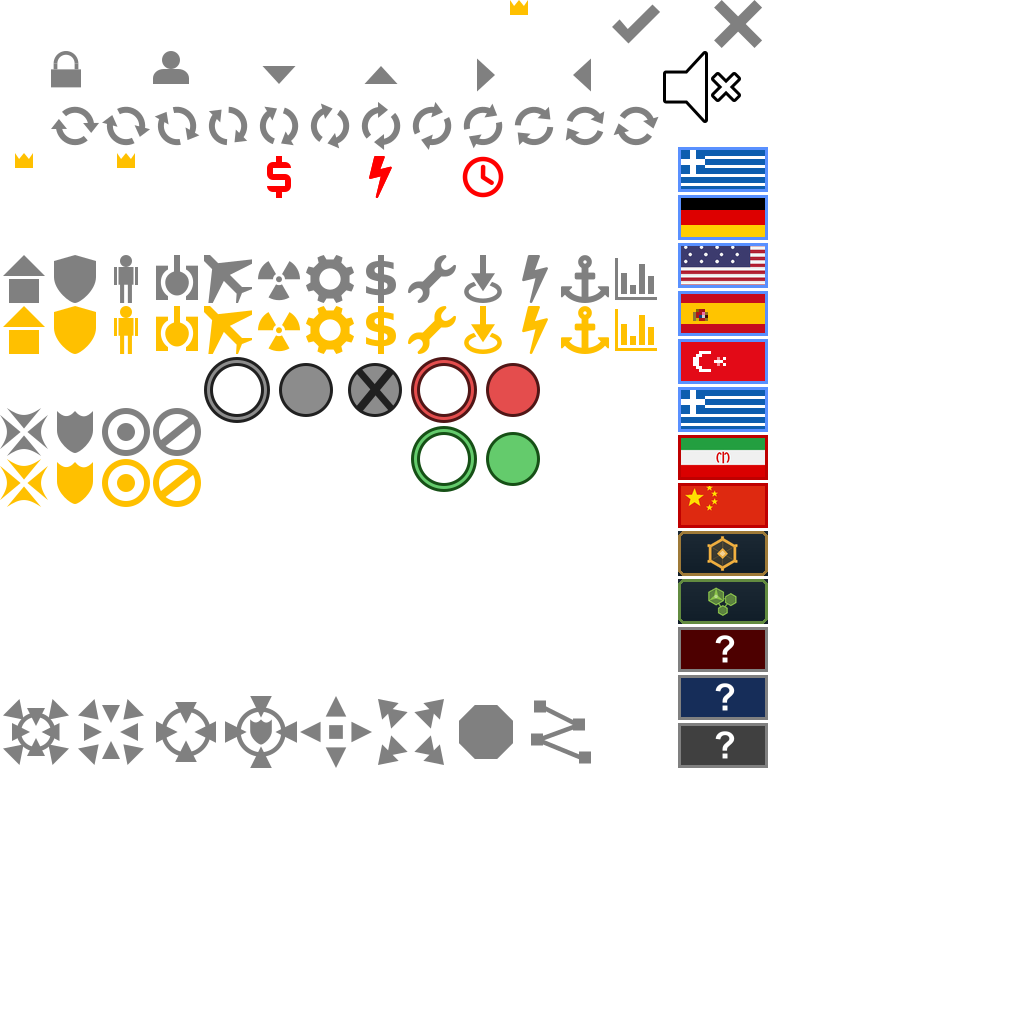
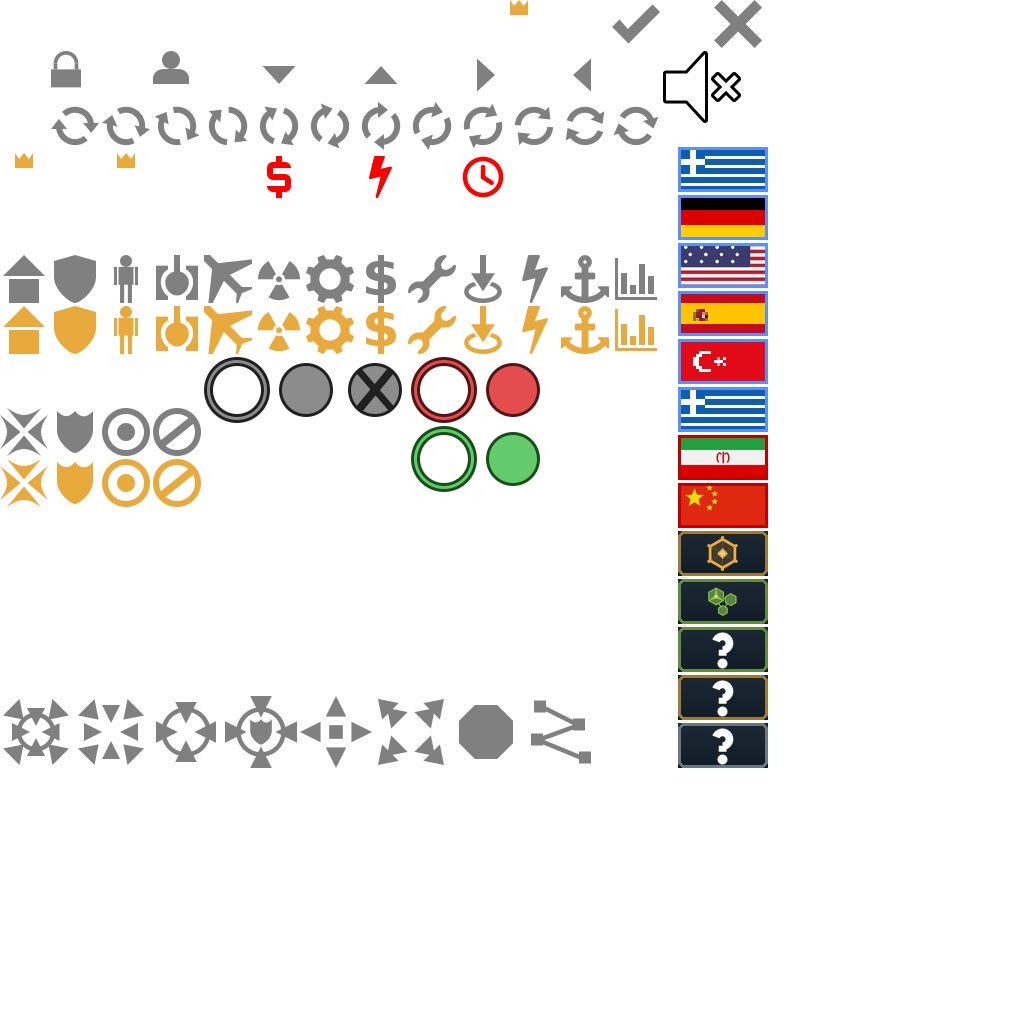
Glyph atlas: stock-yellow highlights to sun gold, Random lobby plaques in the faction plaque style (issue #124)
Proposal A4, the last section-A item of the visual survey. gen_flags() in
uibits/gen_chrome.py becomes gen_glyphs(): it still patches the stock sheet
in place, and now also remaps RA's brand yellow (the production tabs' alert
row, the selected-stance row, the admin crowns) to the locked SUN_GOLD per
pixel at all three UI scales, and redraws the three Random plaques in the
faction dropdown as the faction-logo plaque with a question mark, framed in
Assembly green, Consortium gold and a neutral grey.

The red cash / power / clock icons stay stock red on purpose:
docs/ART_DIRECTION.md keeps the alert colour language unchanged from stock,
and the locked doc wins over the survey's amber.

Verified: a per-cell diff of the 1x sheet lists exactly the cells that held
stock yellow plus the three Random rows; chrome.yaml untouched; re-running
the generator changes only the three glyph sheets and is byte-identical on
a second run; --check-yaml exits 0 across all 75 maps. Not seen live.

Claude-Session: https://claude.ai/code/session_01RMpaweDkdh9CMAR3q9WMob

diff --git a/mods/sungrid/uibits/gen_chrome.py b/mods/sungrid/uibits/gen_chrome.py
@@ -215,7 +215,7 @@ def emblem_consortium(size, accent=SUN_GOLD):
     Redone bolder than the first pass (docs/BACKLOG.md issue #52): the
     original thin-line wall + 16-tick metering ring turned to mush below
     ~32px, and this mark now also has to read at lobby-flag scale (15px
-    tall, see gen_flags below). Line weights are proportional with much
+    tall, see gen_glyphs below). Line weights are proportional with much
     higher floors, the wall is a solid filled band, and fine detail
     (metering ticks, the inner vault wall) only draws at sizes with the
     pixels to resolve it."""
@@ -284,7 +284,7 @@ def emblem_assembly(size, accent=GREEN_ACCENT):
 
     Redone bolder than the first pass (docs/BACKLOG.md issue #52): thin
     struts and dim node fills disappeared below ~32px, and this mark now
-    also has to read at lobby-flag scale (15px tall, see gen_flags below).
+    also has to read at lobby-flag scale (15px tall, see gen_glyphs below).
     Node fills are brighter, outlines/struts much heavier, and the weld
     rivet dots only draw at sizes that can resolve them."""
     s = size * SS
@@ -410,29 +410,50 @@ def wordmark_badge(size, scale=1):
 
 
 # --------------------------------------------------------------------------
-# glyphs.png faction-flag patch: the lobby/observer `flags` collection
-# (chrome.yaml) still ships the stock RA sheet, so The Consortium's logo slot
-# carried the stock Allied eagle and The Assembly's the Soviet
-# hammer-and-sickle — literal Cold War heraldry contradicting both factions'
-# documented identities (docs/BUILDINGS.md's infrastructure-philosophy axis,
-# docs/ART_DIRECTION.md). Replaced with plaques carrying the two faction
-# marks above (Citadel Seal / Swarm Rig), so the logo a player picks a side
-# by matches the badge their sidebar then shows.
+# glyphs.png patch: the glyph atlas (chrome.yaml `^Glyphs`: production,
+# order, stance and command icons, the cash/power/clock tooltip icons,
+# checkmarks, lobby bits, the `flags` collection) is the stock RA sheet,
+# patched in place by gen_glyphs() below rather than regenerated. Three
+# things are ours on it:
 #
-# Unlike everything else in this file, this PATCHES the existing glyphs
-# sheets in place rather than regenerating them: glyphs.png is otherwise
-# still stock content (cash/power icons, checkboxes, sub-faction flags...)
-# that is NOT being replaced here. Idempotent for the two regions it owns —
-# their pixels depend only on this script. Sub-faction slots are handled
-# below (FLAG_BORDER_SOVIET notes): western nation flags stay stock by
-# direct request, and the three slots whose displayed sub-faction no longer
-# matches the stock art (Greece / China / Iran) get corrected art.
+#  - The faction-logo slots. The Consortium's carried the stock Allied eagle
+#    and The Assembly's the Soviet hammer-and-sickle — literal Cold War
+#    heraldry contradicting both factions' documented identities
+#    (docs/BUILDINGS.md's infrastructure-philosophy axis,
+#    docs/ART_DIRECTION.md). Replaced with plaques carrying the two faction
+#    marks above (Citadel Seal / Swarm Rig), so the logo a player picks a
+#    side by matches the badge their sidebar then shows. The three Random
+#    slots (issue #124) are the same plaque with a question mark, on the
+#    faction accent for RandomAllies / RandomSoviet and a neutral grey for
+#    Random, instead of stock's blue / red / grey boxes.
+#  - The stock-yellow highlights (issue #124): the production tabs' alert
+#    row, the selected-stance row and the admin crowns are RA's brand yellow
+#    (255,192,0); they go to the locked SUN_GOLD. The red cash / power /
+#    clock "critical" icons stay stock red on purpose — docs/ART_DIRECTION.md
+#    keeps the RTS alert colour language unchanged.
+#  - Sub-faction slots (FLAG_BORDER_SOVIET notes below): western nation
+#    flags stay stock by direct request, and the slots whose displayed
+#    sub-faction no longer matches the stock art (Greece / China / Iran /
+#    USA) get corrected art.
+#
+# Idempotent for everything it owns: the plaque pixels depend only on this
+# script, the greece source region is never written, and the yellow remap
+# matches the stock hue at full saturation, which SUN_GOLD (s = 0.74) is
+# not, so a second run finds nothing to recolour. Every other glyph is
+# stock content that is NOT being replaced here.
 
 FLAG_W, FLAG_H = 30, 15
+NEUTRAL_ACCENT = (0x9A, 0xA6, 0xAE)   # the "either side" Random plaque's frame
 FLAG_REGIONS = {          # chrome.yaml `flags:` region origins, 1x units
     "allies": (226, 177, "consortium", SUN_GOLD),
     "soviet": (226, 193, "assembly", GREEN_ACCENT),
+    "RandomSoviet": (226, 209, "random", GREEN_ACCENT),
+    "RandomAllies": (226, 225, "random", SUN_GOLD),
+    "Random": (226, 241, "random", NEUTRAL_ACCENT),
 }
+GLYPH_ICON_W = 226        # the icon area; the flag column starts here, and its
+                          # flags have yellows of their own (Spain, China)
+STOCK_YELLOW_G = 192      # (255, 192, 0): the sheet's own highlight yellow
 
 # Sub-faction flag corrections. The western nation flags stay exactly as
 # stock (direct request), but three slots no longer match the sub-faction
@@ -528,6 +549,44 @@ def usa_flag(scale):
     return _framed_flag(scale, draw, FLAG_BORDER_ALLIED)
 
 
+def question_mark(size, accent, ss=4):
+    """The Random plaques' mark: a white question mark `size` px tall (hook,
+    stem, dot), supersampled like the emblems. `accent` is the plaque frame's
+    colour; the mark itself stays white, as stock's does, for legibility at
+    the 1x lobby size."""
+    S = size * ss
+    im = Image.new("RGBA", (S, S), (0, 0, 0, 0))
+    d = ImageDraw.Draw(im)
+    w = max(ss, round(S * 0.2))             # stroke
+    cx = S * 0.5
+    r = S * 0.27                            # hook radius
+    cy = S * 0.07 + r
+    white = (255, 255, 255, 255)
+    d.arc((cx - r, cy - r, cx + r, cy + r), start=200, end=90, fill=white, width=w)
+    d.line((cx, cy + r - w / 2, cx, S * 0.66), fill=white, width=w)
+    dr = w * 0.62
+    d.ellipse((cx - dr, S * 0.86 - dr, cx + dr, S * 0.86 + dr), fill=white)
+    return im.resize((size, size), Image.LANCZOS)
+
+
+def regold_icons(sheet, scale):
+    """Recolour the stock-yellow highlights in the icon area to SUN_GOLD, in
+    place. Stock draws them in one hue at full saturation ((255, 192, 0) plus
+    a couple of lighter variants and anti-aliased edges that keep the hue at
+    partial alpha); each pixel keeps its alpha and its lightness offset from
+    the base yellow. The flag column is left alone."""
+    px = sheet.load()
+    n = 0
+    for y in range(sheet.height):
+        for x in range(GLYPH_ICON_W * scale):
+            r, g, b, a = px[x, y]
+            if a == 0 or r < 250 or b > 8 or g < 180 or g > 215:
+                continue
+            px[x, y] = lift(SUN_GOLD, g - STOCK_YELLOW_G) + (a,)
+            n += 1
+    return n
+
+
 def flag_plaque(scale, kind, accent):
     """One faction-logo plaque at FLAG_W x FLAG_H times `scale`: panel
     surface, soft accent frame, the faction mark centered."""
@@ -539,19 +598,24 @@ def flag_plaque(scale, kind, accent):
         d.line((0, y, w - 1, y), fill=mix(lift(PANEL, 6), lift(PANEL, -6), y / (h - 1)))
     d.rounded_rectangle((0, 0, w - 1, h - 1), radius=2 * scale,
                         outline=mix(accent, PANEL, 0.35), width=scale)
-    mark_fn = {"consortium": emblem_consortium, "assembly": emblem_assembly}[kind]
+    mark_fn = {"consortium": emblem_consortium, "assembly": emblem_assembly,
+               "random": question_mark}[kind]
     m = mark_fn((FLAG_H - 2) * scale, accent)
     im.alpha_composite(m, ((w - m.width) // 2, (h - m.height) // 2))
     return im
 
 
-def gen_flags():
+def gen_glyphs():
     # NB: glyphs-3x.png is a genuine 3x layout on an oversized 1024px canvas
     # (content occupies the 768px top-left; the rest is padding) — verified
-    # against the stock sheet's own flag positions, so patch at scale 3.
+    # against the stock sheet's own flag positions, so patch at scale 3. The
+    # 2x and 3x sheets are stock's own redrawn (anti-aliased) art, not
+    # upscales of the 1x one, which is why the recolour is a hue match per
+    # pixel rather than a lookup of exact stock colours.
     for name, scale in (("glyphs.png", 1), ("glyphs-2x.png", 2), ("glyphs-3x.png", 3)):
         path = f"{UIBITS}/{name}"
         sheet = Image.open(path).convert("RGBA")
+        regolded = regold_icons(sheet, scale)
         for x, y, kind, accent in FLAG_REGIONS.values():
             plaque = flag_plaque(scale, kind, accent)
             sheet.paste(plaque, (x * scale, y * scale))
@@ -569,7 +633,7 @@ def gen_flags():
         sheet.paste(iran_flag(scale), (226 * scale, 145 * scale))    # ukraine slot
         sheet.paste(usa_flag(scale), (226 * scale, 81 * scale))      # france slot
         sheet.save(path)
-        print(name, "flags patched", sheet.size)
+        print(name, "glyphs patched", sheet.size, f"{regolded} px regolded")
 
 
 # --------------------------------------------------------------------------
@@ -981,6 +1045,6 @@ if __name__ == "__main__":
     gen_loadscreen()
     gen_content_background()
     gen_icons()
-    gen_flags()
+    gen_glyphs()
     gen_app_icons()
     gen_macos_background()

diff --git a/CLAUDE.md b/CLAUDE.md
@@ -12,7 +12,7 @@ This repo follows the [OpenRAModSDK](https://github.com/OpenRA/OpenRAModSDK) pat
 - `engine/` — downloaded/built by `fetch-engine.sh` (or `make`), pinned via `mod.config`'s `ENGINE_VERSION`. Contains `OpenRA.Game`, `OpenRA.Mods.Common`, stock mods (`mods/ra`, `mods/cnc`, `mods/d2k`, `mods/ts`), etc. Gitignored — if a friction point genuinely needs an engine-level change, it usually does **not** need a separate personal fork repo: this repo's own pre-Phase-0 history already contains the full engine tree, so a fix can be pinned via an `engine-patch/*` branch built on the currently-pinned commit — see "Engine version pinning" below before touching `ENGINE_VERSION` or any `engine-patch/*` branch. Only reach for an actual personal fork of `OpenRA/OpenRA` if the needed base commit genuinely isn't already reachable in this repo's own history (see `docs/ARCHITECTURE.md`).
 
 **Mod/content territory — where Sungrid Protocol work actually happens:**
-- `mods/sungrid/` — **the Sungrid Protocol mod content**: real Red Alert-derived gameplay (rules/YAML, sequences, 75 maps, chrome layouts, fluent strings) plus all Sungrid-original content on top of it. Art generators live beside their output: `bits/gen_concept_art.py` (in-world sprites — every building as a `Mesh` solid since issue #106, including the Sungrid Construction Yard `sgfact` that `FACT` renders, each planting its own plot since issue #108 and animated since issue #109 — build-ups, rubble, husks, idle overlays, programmatic cameos), `bits/gen_photo_cameos.py` (the shipped photographic cameos), `bits/gen_cursor_art.py`, `bits/gen_intro_music.py`, `bits/gen_arc_sounds.py` (the two arc-weapon reports, issue #110), `bits/gen_unit_effects.py` (issue #120 — projectiles, muzzle bloom and impact effects, the drone uplink pips, the drone and Hauler wrecks and smoke, the discharge death), `bits/gen_core_units.py` (issue #121 — the MCV and the Ore Truck: `Mesh` vehicles at 32 yaws on the stock frame layouts, with scene cameos since issue #123; its rifleman was withdrawn in #123), `bits/gen_world_scenery.py` (issue #122 — the six neutral scenery pieces, the Field Clinic and the Seed Vault on the stock frame layouts), `bits/reskin_terrain_palette.py`, `uibits/gen_chrome.py` (dialog/sidebar/loadscreens/mod icons/faction flags). Regenerating is always safe — output depends only on the script.
+- `mods/sungrid/` — **the Sungrid Protocol mod content**: real Red Alert-derived gameplay (rules/YAML, sequences, 75 maps, chrome layouts, fluent strings) plus all Sungrid-original content on top of it. Art generators live beside their output: `bits/gen_concept_art.py` (in-world sprites — every building as a `Mesh` solid since issue #106, including the Sungrid Construction Yard `sgfact` that `FACT` renders, each planting its own plot since issue #108 and animated since issue #109 — build-ups, rubble, husks, idle overlays, programmatic cameos), `bits/gen_photo_cameos.py` (the shipped photographic cameos), `bits/gen_cursor_art.py`, `bits/gen_intro_music.py`, `bits/gen_arc_sounds.py` (the two arc-weapon reports, issue #110), `bits/gen_unit_effects.py` (issue #120 — projectiles, muzzle bloom and impact effects, the drone uplink pips, the drone and Hauler wrecks and smoke, the discharge death), `bits/gen_core_units.py` (issue #121 — the MCV and the Ore Truck: `Mesh` vehicles at 32 yaws on the stock frame layouts, with scene cameos since issue #123; its rifleman was withdrawn in #123), `bits/gen_world_scenery.py` (issue #122 — the six neutral scenery pieces, the Field Clinic and the Seed Vault on the stock frame layouts), `bits/reskin_terrain_palette.py`, `uibits/gen_chrome.py` (dialog/sidebar/loadscreens/mod icons/faction flags, and since issue #124 the glyph-atlas patch: stock yellow to sun gold, Random plaques). Regenerating is always safe — output depends only on the script.
 - `mods/sungrid-content/` — the content-installer mod. Sungrid Protocol reads Red Alert asset `.mix` files from `<SupportDir>/Content/ra/v2/`; this is the first-launch flow that fetches the official freeware package or extracts from a disc/Steam/Origin copy. Since issue #119 it draws on the game's own chrome (`sungrid|chrome.yaml` merged with its small `chrome.yaml`), cursors and `uibits/content-bg.png`; its `content.yaml` and the game's `chrome/lobby.yaml` are copies of the stock layouts with a header added — re-diff them against `engine/mods/common*` whenever `ENGINE_VERSION` moves.
 - `OpenRA.Mods.Sungrid/` — mod-specific C# project. `GridReserve/` holds the whole economic-victory mode (`GridReserveVault`, `GridReserveManager`, `GridReserveController`, `GridReserveBotModule`, and the HUD/briefing/standings logic); `LoadScreens/SungridLoadScreen.cs` is the stock logo-stripe load screen wrapped so it sets the window title as soon as the mod's fluent strings exist, instead of the engine's hard-coded "OpenRA" lasting through the whole load (issue #117); `Rendering/` still holds the SDK's two renamed example traits (`ColorPickerColorShift`, `PlayerColorShift`); `UtilityCommands/RefreshMapPreviewsCommand.cs` is `./utility.sh --refresh-map-previews <map>...`, which re-saves a map so its `map.png` is rendered from the current tileset colours (issue #119 — previews and the radar minimap come from `tilesets/*.yaml`'s terrain-type `Color:` entries, not the palette; `bits/reskin_tileset_colors.py` keeps those in step with the palette reskin); `Economy/` holds `SpawnsResourceOnDeath` (issue #86 — drops a small amount of a resource at an actor's death cell for a Harvester-type unit to auto-collect) and `ResourceDecayManager` (a World-actor `ITick` trait owning both of that drop's timers: issue #87's decay, which expires an uncollected drop so battlefield wreckage stays temporary, and issue #97's `SpawnDelay`, which holds the drop back for 30s before it appears at all); both unverified, no engine build available in this environment to compile against.
 - `mod.config`, `fetch-engine.sh`/`.cmd`, `Makefile`/`make.cmd`/`make.ps1`, `launch-game.*`, `launch-dedicated.*`, `utility.*`, `Sungrid.sln`, `packaging/` — SDK scaffolding, all mod-scale (not the engine's own build/packaging tooling). `packaging/artwork/` (the application icons for all three platform packages and the macOS DMG background) is generated output of `mods/sungrid/uibits/gen_chrome.py`, not hand-edited files, since issue #114 — before that it was still the SDK's "Ex" placeholder icon.
@@ -568,15 +568,16 @@ widely, including `.lua`, when removing an actor).
   name, the Grid Defense Turret's tank shell, the Phase 7 unit order (MCV/HARV/E1 first), scenery, Scrap readability,
   rubble and bibs for the roster. Four fixes from the same survey already shipped (wordmark in the logo slot, fake
   arrays on Sungrid art, Hauler spills Scrap, no fireball on the Disruptor Trooper's death), and issue #119 took
-  the whole first-impression group except the glyph atlas (A4): installer chrome, main menu, a Sungrid shellmap
-  battle, the Grid Reserve HUD chrome, loading tips, previews and titles, lobby header, emblem refinement.
+  the whole first-impression group except the glyph atlas: installer chrome, main menu, a Sungrid shellmap
+  battle, the Grid Reserve HUD chrome, loading tips, previews and titles, lobby header, emblem refinement
+  (issue #124 then took the atlas, A4: stock yellow to sun gold and the Random plaques; the alert reds stay stock
+  per `docs/ART_DIRECTION.md`'s guardrail, which wins over the survey).
   Issue #120 took section B except the roster itself: the drone rockets, the uplink cue, the burning wrecks and
   the electric death are done (the turret's bolt and the stale cameos were withdrawn again in issue #123 - the
   owner wants the turret read as a heavy gun, and a cameo follows its actor's art); issue #121 shipped B7's first tier (MCV, Ore Truck; the rifleman was withdrawn in #123);
   issue #122 took section C (scenery on three maps, the Scrap retune and field, the Legacy Derrick / Field Clinic /
   Seed Vault; the derrick's palette was dropped in #123; C5's Gem look needs game content). Still open from the
-  survey: A4, B7's later tiers, and
-  sections D–F.
+  survey: B7's later tiers and sections D–F.
 
 ## Working conventions
 

diff --git a/docs/BACKLOG.md b/docs/BACKLOG.md
@@ -4420,3 +4420,46 @@ atekicon,stekicon,v2rlicon,qtnkicon,procicon,sgpulse,sgturfire,sgpulsehit}.png`,
 **Definition of done:** the four reversals and the two cameos as above - met.
 
 ---
+
+### 124. The glyph atlas: stock-yellow highlights to sun gold, Random lobby plaques in the faction plaque style
+
+**Raised as:** "alright do the glyph atlas too" - proposal A4 of `docs/VISUAL_PROPOSALS.md`, the one section-A item
+issue #119 left open.
+
+**What the atlas is.** `uibits/glyphs*.png` is the sheet every `^Glyphs` collection in `chrome.yaml` draws from:
+the production tab icons and their disabled / alert rows, the order and stance buttons, the command bar, the cash /
+power / clock tooltip icons, checkmarks, the lobby bits and the `flags` column. All of it was still the stock Red
+Alert sheet except the two faction-logo plaques `gen_flags()` patched in (issue #41) and the sub-faction flag
+corrections. The 2x and 3x sheets are stock's own redrawn, anti-aliased art, not upscales of the 1x one.
+
+**Fix.** `gen_flags()` is now `gen_glyphs()` in `uibits/gen_chrome.py`, still a patch over the stock sheet rather
+than a regeneration (the rest of the atlas is stock content that is not being replaced), with two additions:
+
+- `regold_icons()` recolours RA's brand yellow (255,192,0) wherever it appears in the icon area - the production
+  tabs' alert row, the selected-stance row and the two admin crowns - to the locked `SUN_GOLD`, per pixel, keeping
+  the alpha and the lightness offset of stock's lighter variants. It matches the stock hue at full saturation, which
+  `SUN_GOLD` (s = 0.74) is not, so a second run finds nothing: the three sheets are byte-identical across re-runs.
+  The flag column is excluded (Spain and China have yellows of their own).
+- The three Random plaques (`RandomSoviet`, `RandomAllies`, `Random`) are `flag_plaque()` with a new `question_mark()`
+  mark - a white hook, stem and dot drawn supersampled like the emblems, since the mod's Title face renders a "?"
+  too small at 15px - framed in the Assembly green, the Consortium gold and a neutral grey, instead of stock's red,
+  blue and grey boxes.
+
+**Deliberately not done: the red cash / power / clock "critical" icons stay stock red.** A4 proposed moving them
+to amber, but `docs/ART_DIRECTION.md`'s guardrail and its palette table keep the RTS alert colour language
+unchanged from stock, and a red low-cash icon is that language. The locked doc wins over the survey.
+
+**Verified:** only the intended cells changed - a per-cell diff of the 1x sheet against the committed one lists
+exactly the twenty cells that held stock yellow and the three Random rows, nothing else; `chrome.yaml` is untouched;
+re-running `gen_chrome.py` changes only the three glyph sheets, and running it twice leaves them byte-identical;
+`./utility.sh --check-yaml` exits 0 across all 75 maps. `docs/concept-art/issue124-glyphs.png` is the before /
+after strip at all three scales. **Not verified live:** the atlas in the sidebar and the lobby dropdown.
+
+**Files:** `mods/sungrid/uibits/gen_chrome.py`, `mods/sungrid/uibits/glyphs{,-2x,-3x}.png` (regenerated),
+`docs/concept-art/issue124-glyphs.png`, `docs/{VISUAL_PROPOSALS,ART_DIRECTION}.md`, `CLAUDE.md`, `CHANGELOG.md`.
+
+**Phase:** 6 (UI identity) - the last section-A item of the visual survey.
+
+**Definition of done:** A4 as proposed, minus the alert reds - met.
+
+---

diff --git a/docs/ART_DIRECTION.md b/docs/ART_DIRECTION.md
@@ -185,6 +185,8 @@ The material is the pale steel of the concept renders in `concept-art/cameo-sour
 
 **Follow-up: the first live look at issues #120–#122, and what it took back (`docs/BACKLOG.md` issue #123).** Four corrections from the owner's first match on the new art, and one rule. The Grid Defense Turret fires the stock 120mm shell again, with the fireball and the cannon report: issue #120's bolt, bloom and flash-ring impact made it read as a lighter weapon than the heavy anti-tank emplacement it is (its numbers never changed), and a defence's *weight* is read off its shot before anything else. The rifleman goes back to the stock sprite (the Disruptor Trooper keeps his; the drawing stays in history for a later tier). The seven cameos drawn for renamed stock actors go back to stock, old names and all, under a rule this document now carries: **a cameo changes only when its actor's in-world art does** — the build menu must not promise a unit the battlefield doesn't show. The Legacy Derrick's rust palette is dropped: a whole-palette pull toward rust turned the stock derrick tan, which on temperate ground reads as the desert tileset's derrick rather than old iron; it keeps its name on the stock colours. And the two vehicle cameos that stay (MCV, Ore Truck) are now scene renders — sky, horizon haze, a green ground plane, the cast shadow — in the photographic cameos' tonal range, because a flat blue-black panel beside those photographs read as unfinished.
 
+**Follow-up: the glyph atlas (`docs/BACKLOG.md` issue #124).** The last section-A item of the survey: the small-icon sheet behind the sidebar tabs, the order and stance buttons, the command bar and the lobby bits was still Red Alert's, in its grey, white and brand yellow. The yellow — the production tab's alert row, the selected stance, the admin crown — is now the locked sun gold, remapped per pixel at all three UI scales; the three Random plaques in the faction dropdown are the same plaque the two faction logos sit on, with a question mark, framed in Assembly green, Consortium gold and a neutral grey. The red low-cash, low-power and clock icons were left stock on purpose: the guardrail above keeps the alert colour language unchanged, and A4's proposal to move them to amber lost to it. The rest of the atlas is stock pixel art and stays so; it is grey and white, and reads as chrome rather than as Red Alert.
+
 ![Issue 123 review render: the Ore Truck and MCV scene cameos beside the Solar Array, Hauler Drone and Disruptor Trooper cameos.](concept-art/issue123-cameos.png)
 
 The turbine and the dish at their real per-frame timing: [`issue109-sgwnd.gif`](concept-art/issue109-sgwnd.gif), [`issue109-sgsns.gif`](concept-art/issue109-sgsns.gif).

diff --git a/docs/VISUAL_PROPOSALS.md b/docs/VISUAL_PROPOSALS.md
@@ -34,7 +34,7 @@ facing, or a sprite that describes a mechanic the actor doesn't have.
 
 Issue #119 took A1, A2, A3, A5, A6, A7, A8 and A9 from section A below (each is marked
 `[shipped, issue #119]`; the full engineering detail is in `docs/BACKLOG.md`). A4 (the glyph
-atlas) is the one section-A item still open. Issue #120 took B2, B3, B4, B5, B6 and B8 from
+atlas) shipped as issue #124, so section A is closed. Issue #120 took B2, B3, B4, B5, B6 and B8 from
 section B (marked `[shipped, issue #120]`); B7 is capped at its first tier (MCV, HARV, E1), the
 owner's call, and that tier shipped as issue #121 - the later tiers (the tanks, then the raiders)
 stay open. Issue #122 took section C: C2, C3 and C4 are marked `[shipped, issue #122]`, C5 is
@@ -89,7 +89,7 @@ line being probed by Disruptor Troopers, the `CameraOvalMover` path over it. Kee
 of frame until B-series below replaces them. Cost: M. Kind: map + Lua. Verify: `--check-yaml` loads
 the map; `--check-scripts`; a screenshot under Xvfb (the shellmap renders there, issue #33).
 
-**A4. The glyph atlas is still stock RA pixel art.**
+**A4. [shipped, issue #124] The glyph atlas is still stock RA pixel art.**
 Now: `uibits/glyphs*.png` is the stock sheet except the two faction-flag plaques `gen_flags()` patches
 in: production/order/stance icons in stock grey with stock-yellow highlights, red cash/power/clock
 tooltip icons, the three Random "?" flags on stock blue/red/grey.
@@ -97,6 +97,10 @@ Proposal: extend `gen_flags()` into `gen_glyphs()`: remap the stock-yellow highl
 and the red alert icons to the locked amber, redraw the Random "?" plaques on the Consortium gold /
 Assembly green plaque style the faction slots already use. Pixel rects unchanged. Cost: S. Kind:
 generator. Verify: `chrome.yaml` regions untouched; diff the atlas (only the intended rows change).
+Shipped: `gen_glyphs()` recolours the stock yellow to sun gold (alert row, selected stance, admin crowns) and
+redraws the three Random plaques; the red cash / power / clock icons stay stock red, because
+`docs/ART_DIRECTION.md` keeps the alert colour language unchanged from stock - the guardrail wins over this
+proposal. Not seen live.
 
 **A5. [shipped, issue #119] The Grid Reserve HUD and standings are plain black boxes with hard-coded colours.**
 Now: `GRID_RESERVE_HUD` and `GRID_RESERVE_STANDINGS` sit on `ColorBlock 00000090`;

diff --git a/CHANGELOG.md b/CHANGELOG.md
@@ -35,7 +35,8 @@ The detailed entries below track every issue through #116; this list maps them o
   that read on every ground plus a Scrap field on the shellmap, and the Legacy Derrick, Field Clinic and Seed Vault
   (issue #122); after a first live look, the rifleman and the seven renamed-actor cameos back to stock, the
   derrick back on stock colours, the Grid Defense Turret back on its tank shell, and scene cameos for the MCV
-  and the Ore Truck (issue #123).
+  and the Ore Truck (issue #123); the sidebar's highlight icons in sun gold and the lobby's Random plaques in the
+  faction plaque style (issue #124).
 - **beta01**: the Sungrid app icons and disk-image background (issue #114), the plain "Sungrid Protocol"
   shortcut and app names (issue #115), and the beta-testing groundwork (issue #116).
 - **alpha39**: issues #110–#113 — the Arc Turret and Disruptor Trooper's arc weapon and discharge sounds,
